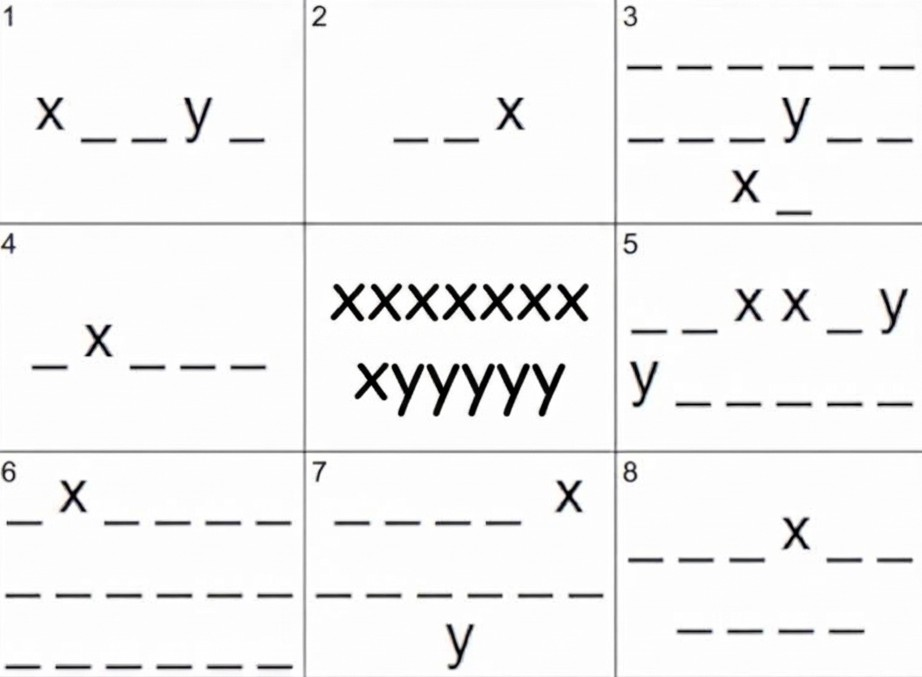
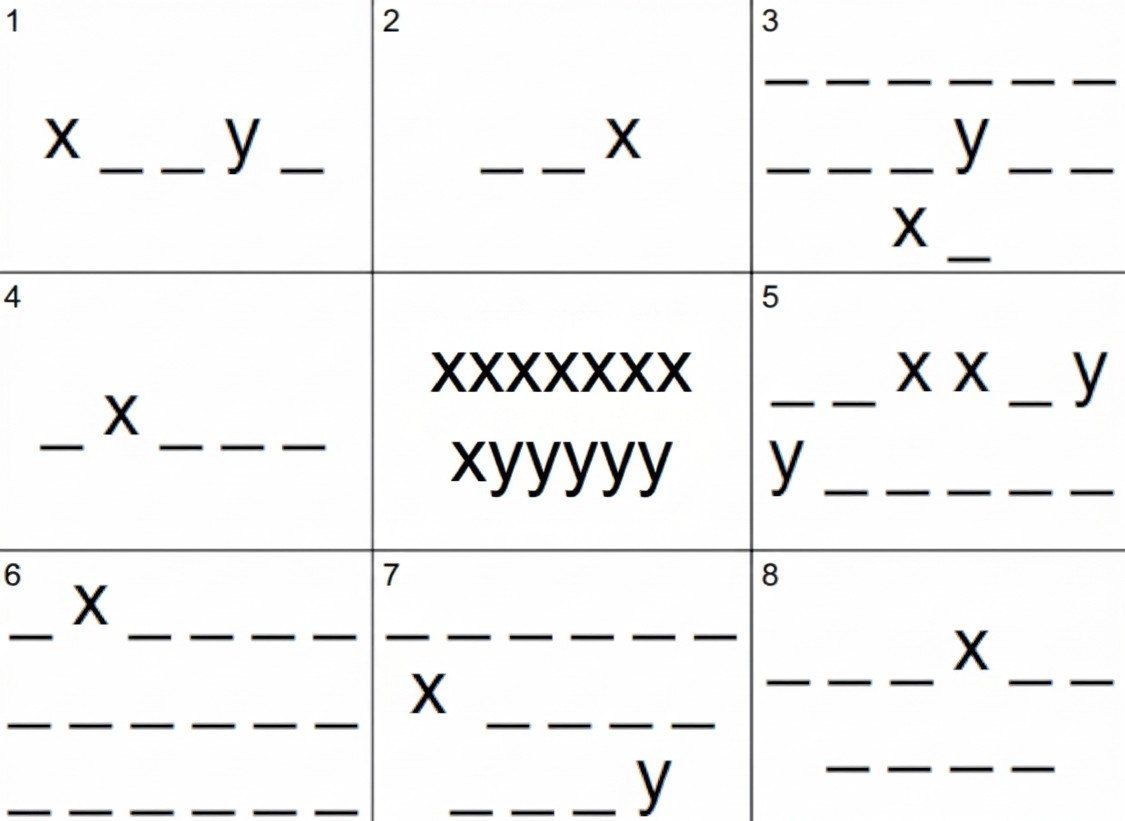
small changes

diff --git a/src/assets/text.ts b/src/assets/text.ts
@@ -60,8 +60,7 @@ export const tasktexts = [
     {
         id: "task8",
         question: "Emmi on kyllästynyt. Kertokaa hänelle viihdyttävä tarina käyttäen näitä emojeja tässä järjestyksessä. Yksi pelaaja ei saa sanoa kahta lausetta peräkkäin, ja kaikkien pitää osallistua ainakin yhdellä lauseella. Jos Emmi tykkää tarinasta, saatte koodin.",
-        answer: "Emmi päättää!",
-        emojis: ["🦊", "🚀", "🍕", "🎸", "🪐", "🎯", "👾", "🔮", "🥑", "🏝", "🎭", "🐉", "🌵", "🎲", "🧩","🌋", "🐼", "🍣", "🛹", "💎"],
+        answer: "tontut kurkkii!",
     },
     {
         id: "task9",
